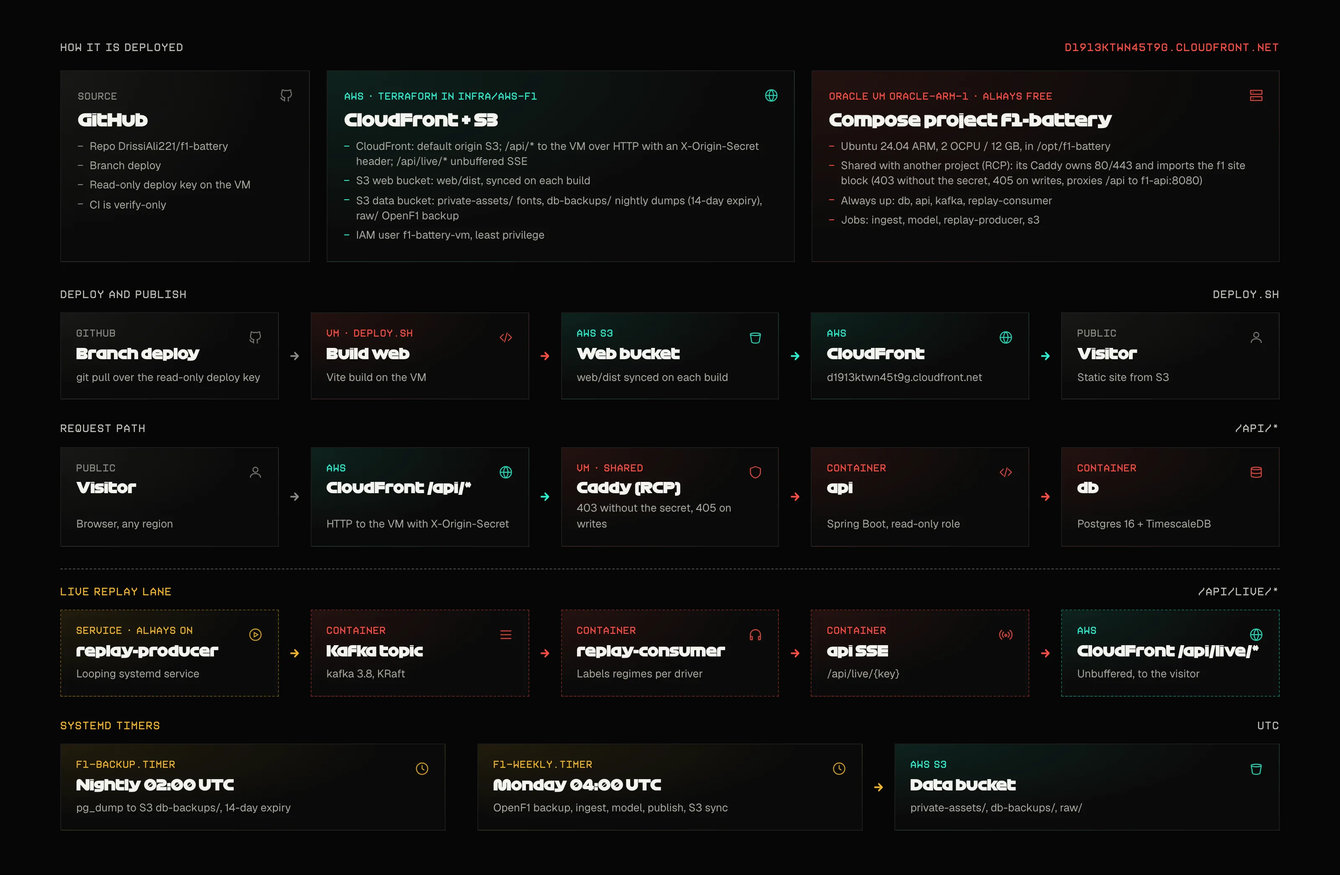
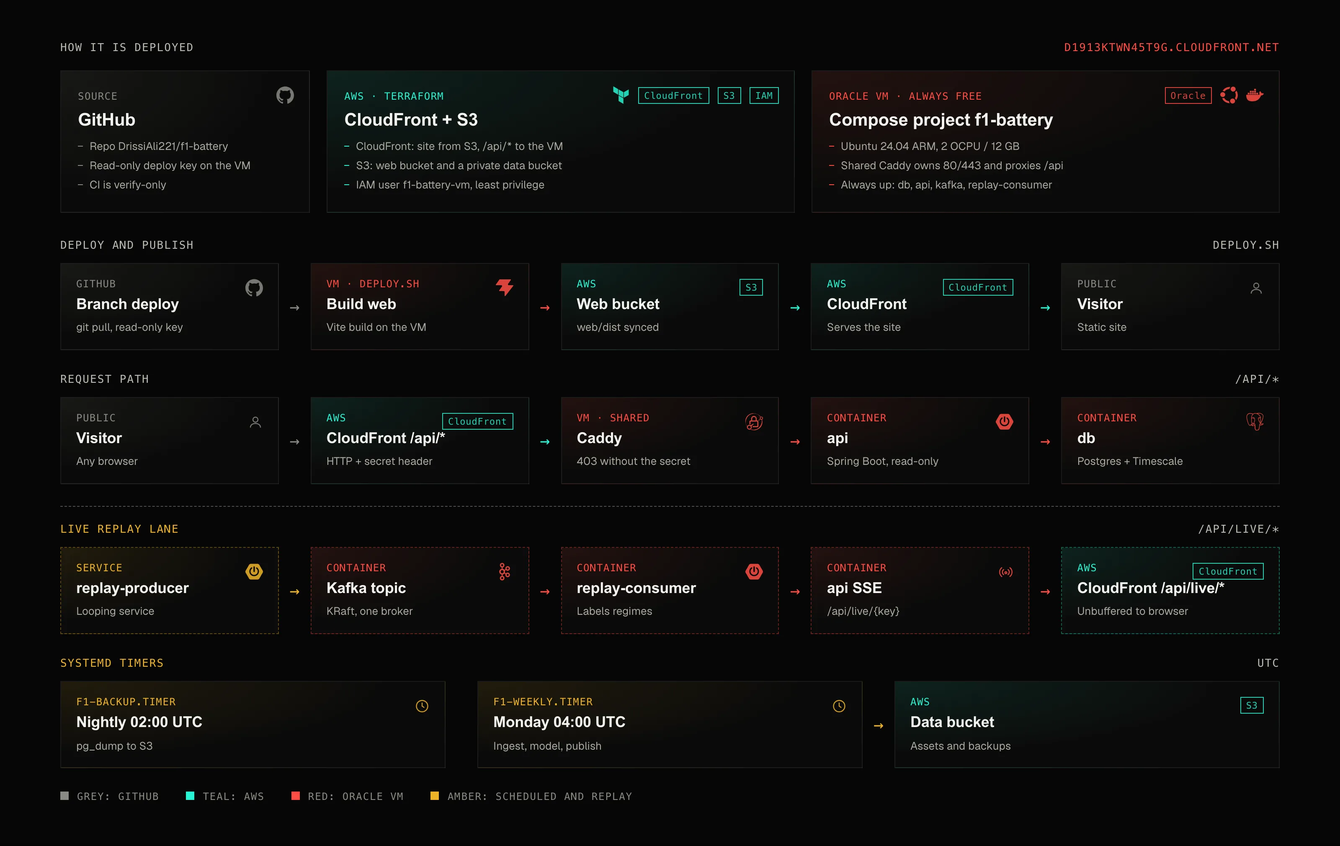
docs: brand marks in the pipeline and deployment panels

diff --git a/web/readme/logos.tsx b/web/readme/logos.tsx
@@ -1,0 +1,46 @@
+/* Brand marks vendored from Simple Icons (https://simpleicons.org), CC0 1.0. 24-grid path data, drawn monochrome.
+   Trademarks belong to their owners. Not in Simple Icons, so typeset as wordmarks instead: Oracle, AWS, S3, CloudFront, IAM. */
+import type { CSSProperties } from 'react';
+
+export const MARKS: Record<string, string> = {
+  // Simple Icons, CC0
+  github: 'M12 .297c-6.63 0-12 5.373-12 12 0 5.303 3.438 9.8 8.205 11.385.6.113.82-.258.82-.577 0-.285-.01-1.04-.015-2.04-3.338.724-4.042-1.61-4.042-1.61C4.422 18.07 3.633 17.7 3.633 17.7c-1.087-.744.084-.729.084-.729 1.205.084 1.838 1.236 1.838 1.236 1.07 1.835 2.809 1.305 3.495.998.108-.776.417-1.305.76-1.605-2.665-.3-5.466-1.332-5.466-5.93 0-1.31.465-2.38 1.235-3.22-.135-.303-.54-1.523.105-3.176 0 0 1.005-.322 3.3 1.23.96-.267 1.98-.399 3-.405 1.02.006 2.04.138 3 .405 2.28-1.552 3.285-1.23 3.285-1.23.645 1.653.24 2.873.12 3.176.765.84 1.23 1.91 1.23 3.22 0 4.61-2.805 5.625-5.475 5.92.42.36.81 1.096.81 2.22 0 1.606-.015 2.896-.015 3.286 0 .315.21.69.825.57C20.565 22.092 24 17.592 24 12.297c0-6.627-5.373-12-12-12',
+  // Simple Icons, CC0
+  postgresql: 'M23.5594 14.7228a.5269.5269 0 0 0-.0563-.1191c-.139-.2632-.4768-.3418-1.0074-.2321-1.6533.3411-2.2935.1312-2.5256-.0191 1.342-2.0482 2.445-4.522 3.0411-6.8297.2714-1.0507.7982-3.5237.1222-4.7316a1.5641 1.5641 0 0 0-.1509-.235C21.6931.9086 19.8007.0248 17.5099.0005c-1.4947-.0158-2.7705.3461-3.1161.4794a9.449 9.449 0 0 0-.5159-.0816 8.044 8.044 0 0 0-1.3114-.1278c-1.1822-.0184-2.2038.2642-3.0498.8406-.8573-.3211-4.7888-1.645-7.2219.0788C.9359 2.1526.3086 3.8733.4302 6.3043c.0409.818.5069 3.334 1.2423 5.7436.4598 1.5065.9387 2.7019 1.4334 3.582.553.9942 1.1259 1.5933 1.7143 1.7895.4474.1491 1.1327.1441 1.8581-.7279.8012-.9635 1.5903-1.8258 1.9446-2.2069.4351.2355.9064.3625 1.39.3772a.0569.0569 0 0 0 .0004.0041 11.0312 11.0312 0 0 0-.2472.3054c-.3389.4302-.4094.5197-1.5002.7443-.3102.064-1.1344.2339-1.1464.8115-.0025.1224.0329.2309.0919.3268.2269.4231.9216.6097 1.015.6331 1.3345.3335 2.5044.092 3.3714-.6787-.017 2.231.0775 4.4174.3454 5.0874.2212.5529.7618 1.9045 2.4692 1.9043.2505 0 .5263-.0291.8296-.0941 1.7819-.3821 2.5557-1.1696 2.855-2.9059.1503-.8707.4016-2.8753.5388-4.1012.0169-.0703.0357-.1207.057-.1362.0007-.0005.0697-.0471.4272.0307a.3673.3673 0 0 0 .0443.0068l.2539.0223.0149.001c.8468.0384 1.9114-.1426 2.5312-.4308.6438-.2988 1.8057-1.0323 1.5951-1.6698zM2.371 11.8765c-.7435-2.4358-1.1779-4.8851-1.2123-5.5719-.1086-2.1714.4171-3.6829 1.5623-4.4927 1.8367-1.2986 4.8398-.5408 6.108-.13-.0032.0032-.0066.0061-.0098.0094-2.0238 2.044-1.9758 5.536-1.9708 5.7495-.0002.0823.0066.1989.0162.3593.0348.5873.0996 1.6804-.0735 2.9184-.1609 1.1504.1937 2.2764.9728 3.0892.0806.0841.1648.1631.2518.2374-.3468.3714-1.1004 1.1926-1.9025 2.1576-.5677.6825-.9597.5517-1.0886.5087-.3919-.1307-.813-.5871-1.2381-1.3223-.4796-.839-.9635-2.0317-1.4155-3.5126zm6.0072 5.0871c-.1711-.0428-.3271-.1132-.4322-.1772.0889-.0394.2374-.0902.4833-.1409 1.2833-.2641 1.4815-.4506 1.9143-1.0002.0992-.126.2116-.2687.3673-.4426a.3549.3549 0 0 0 .0737-.1298c.1708-.1513.2724-.1099.4369-.0417.156.0646.3078.26.3695.4752.0291.1016.0619.2945-.0452.4444-.9043 1.2658-2.2216 1.2494-3.1676 1.0128zm2.094-3.988-.0525.141c-.133.3566-.2567.6881-.3334 1.003-.6674-.0021-1.3168-.2872-1.8105-.8024-.6279-.6551-.9131-1.5664-.7825-2.5004.1828-1.3079.1153-2.4468.079-3.0586-.005-.0857-.0095-.1607-.0122-.2199.2957-.2621 1.6659-.9962 2.6429-.7724.4459.1022.7176.4057.8305.928.5846 2.7038.0774 3.8307-.3302 4.7363-.084.1866-.1633.3629-.2311.5454zm7.3637 4.5725c-.0169.1768-.0358.376-.0618.5959l-.146.4383a.3547.3547 0 0 0-.0182.1077c-.0059.4747-.054.6489-.115.8693-.0634.2292-.1353.4891-.1794 1.0575-.11 1.4143-.8782 2.2267-2.4172 2.5565-1.5155.3251-1.7843-.4968-2.0212-1.2217a6.5824 6.5824 0 0 0-.0769-.2266c-.2154-.5858-.1911-1.4119-.1574-2.5551.0165-.5612-.0249-1.9013-.3302-2.6462.0044-.2932.0106-.5909.019-.8918a.3529.3529 0 0 0-.0153-.1126 1.4927 1.4927 0 0 0-.0439-.208c-.1226-.4283-.4213-.7866-.7797-.9351-.1424-.059-.4038-.1672-.7178-.0869.067-.276.1831-.5875.309-.9249l.0529-.142c.0595-.16.134-.3257.213-.5012.4265-.9476 1.0106-2.2453.3766-5.1772-.2374-1.0981-1.0304-1.6343-2.2324-1.5098-.7207.0746-1.3799.3654-1.7088.5321a5.6716 5.6716 0 0 0-.1958.1041c.0918-1.1064.4386-3.1741 1.7357-4.4823a4.0306 4.0306 0 0 1 .3033-.276.3532.3532 0 0 0 .1447-.0644c.7524-.5706 1.6945-.8506 2.802-.8325.4091.0067.8017.0339 1.1742.081 1.939.3544 3.2439 1.4468 4.0359 2.3827.8143.9623 1.2552 1.9315 1.4312 2.4543-1.3232-.1346-2.2234.1268-2.6797.779-.9926 1.4189.543 4.1729 1.2811 5.4964.1353.2426.2522.4522.2889.5413.2403.5825.5515.9713.7787 1.2552.0696.087.1372.1714.1885.245-.4008.1155-1.1208.3825-1.0552 1.717-.0123.1563-.0423.4469-.0834.8148-.0461.2077-.0702.4603-.0994.7662zm.8905-1.6211c-.0405-.8316.2691-.9185.5967-1.0105a2.8566 2.8566 0 0 0 .135-.0406 1.202 1.202 0 0 0 .1342.103c.5703.3765 1.5823.4213 3.0068.1344-.2016.1769-.5189.3994-.9533.6011-.4098.1903-1.0957.333-1.7473.3636-.7197.0336-1.0859-.0807-1.1721-.151zm.5695-9.2712c-.0059.3508-.0542.6692-.1054 1.0017-.055.3576-.112.7274-.1264 1.1762-.0142.4368.0404.8909.0932 1.3301.1066.887.216 1.8003-.2075 2.7014a3.5272 3.5272 0 0 1-.1876-.3856c-.0527-.1276-.1669-.3326-.3251-.6162-.6156-1.1041-2.0574-3.6896-1.3193-4.7446.3795-.5427 1.3408-.5661 2.1781-.463zm.2284 7.0137a12.3762 12.3762 0 0 0-.0853-.1074l-.0355-.0444c.7262-1.1995.5842-2.3862.4578-3.4385-.0519-.4318-.1009-.8396-.0885-1.2226.0129-.4061.0666-.7543.1185-1.0911.0639-.415.1288-.8443.1109-1.3505.0134-.0531.0188-.1158.0118-.1902-.0457-.4855-.5999-1.938-1.7294-3.253-.6076-.7073-1.4896-1.4972-2.6889-2.0395.5251-.1066 1.2328-.2035 2.0244-.1859 2.0515.0456 3.6746.8135 4.8242 2.2824a.908.908 0 0 1 .0667.1002c.7231 1.3556-.2762 6.2751-2.9867 10.5405zm-8.8166-6.1162c-.025.1794-.3089.4225-.6211.4225a.5821.5821 0 0 1-.0809-.0056c-.1873-.026-.3765-.144-.5059-.3156-.0458-.0605-.1203-.178-.1055-.2844.0055-.0401.0261-.0985.0925-.1488.1182-.0894.3518-.1226.6096-.0867.3163.0441.6426.1938.6113.4186zm7.9305-.4114c.0111.0792-.049.201-.1531.3102-.0683.0717-.212.1961-.4079.2232a.5456.5456 0 0 1-.075.0052c-.2935 0-.5414-.2344-.5607-.3717-.024-.1765.2641-.3106.5611-.352.297-.0414.6111.0088.6356.1851z',
+  // Simple Icons, CC0
+  timescale: 'M5.537.763c-1.167.7-2.21 1.582-3.08 2.61L3.79 4.836a10.422 10.422 0 013.627-2.881zm13.028.085l-1.991 1.12a10.381 10.381 0 013.762 3.07l1.18-1.654a12.371 12.371 0 00-2.95-2.536zm-6.564.752a9.788 9.788 0 00-4.131.91l.59 1.011a8.542 8.542 0 013.541-.762c1.261 0 2.457.274 3.534.76l.59-1.012a9.81 9.81 0 00-4.124-.907zM11.4 3.535l-.55 6.626h.003l-.002.04c.003.111.013.216.033.318.01.112.043.227.097.342.114.289.298.505.516.607.05.04.105.075.158.111a.98.98 0 01.033.02v.004l6.68 3.596.348-.476-6.058-4.6c-.007 0-.01-.005-.014-.008L12 3.535zm1.423.052c.19.234.361.523.502.855 3.155.604 5.54 3.325 5.54 6.596 0 .877-.176 1.712-.484 2.48a3.7 3.7 0 01.52.76 7.314 7.314 0 00.754-3.24c0-3.868-2.99-7.05-6.832-7.45zm-2.284.095c-3.527.667-6.19 3.708-6.19 7.356 0 2.584 1.335 4.863 3.367 6.21a9.84 9.84 0 01.295-.743c-1.74-1.219-2.874-3.214-2.874-5.467 0-3.054 2.082-5.632 4.932-6.45.128-.351.289-.656.47-.906zm9.15 1.675l-.801.893a8.101 8.101 0 011.551 4.777c0 2.916-1.542 5.481-3.872 6.952.104.388.188.792.251 1.209 2.87-1.632 4.802-4.677 4.802-8.16a9.224 9.224 0 00-1.93-5.67zm-15.38.007a9.25 9.25 0 00-1.93 5.665c0 3.507 1.954 6.567 4.858 8.19.063-.418.144-.822.248-1.206-2.36-1.468-3.923-4.045-3.923-6.984 0-1.777.573-3.422 1.549-4.772zm9.314.043c.044.203.08.416.107.64a5.332 5.332 0 013.213 2.912l.577-.148a5.942 5.942 0 00-3.897-3.404zm-3.816.187a5.939 5.939 0 00-3.319 3.198l.58.148A5.324 5.324 0 019.73 6.257c.017-.227.04-.45.077-.663zM6.733 9.672l-.62.63.315.614 1.727.618.942-.618-.312-.923zm10.615 0l-2.048.321-.315.923.942.618 1.73-.618.315-.614zM6.1 11.869A5.824 5.824 0 008.42 15.7c.1-.17.204-.335.315-.493a5.252 5.252 0 01-2.038-3.34zm11.206 0c-.03.18-.071.355-.118.529.174.138.338.272.493.41.097-.302.174-.617.22-.94zm-15.679.217L0 14.158c.966 3.661 3.638 6.65 7.132 8.111a9.399 9.399 0 01-.05-1.031c0-.375.017-.747.05-1.111-3.024-1.563-5.166-4.544-5.505-8.041zm20.707.055c-.352 3.45-2.464 6.394-5.441 7.957.033.374.05.755.053 1.136 0 .377-.017.71-.05 1.005 3.506-1.488 6.175-4.522 7.104-8.223zm-6.544 2.617a5.31 5.31 0 01-.486.42c.11.158.218.322.318.493.265-.2.513-.42.74-.66a10.61 10.61 0 01-.572-.253zm1.502.559a6.9 6.9 0 01-1.25 1.156c.106.236.207.485.294.741a7.667 7.667 0 001.857-1.772 3.554 3.554 0 01-.9-.125zm-2.988.63l-2.303.913-2.307-.91-.587 1.435 2.448.946c-.134.46-.568.798-1.08.798-.034 0-.07-.004-.104-.007l-.5.686c.188.063.39.096.6.096.621 0 1.17-.289 1.52-.738a1.924 1.924 0 002.183.62l-.49-.67a1.122 1.122 0 01-1.26-.805l2.47-.926zm1.156 4.775c-1.09.377-2.256.58-3.476.58-1.17 0-2.29-.186-3.34-.534.231.88.59 1.654 1.05 2.262.743.134 1.509.207 2.294.207.835 0 1.65-.082 2.437-.236.453-.61.807-1.39 1.035-2.28z',
+  // Simple Icons, CC0
+  apachekafka: 'M9.71 2.136a1.43 1.43 0 0 0-2.047 0h-.007a1.48 1.48 0 0 0-.421 1.042c0 .41.161.777.422 1.039l.007.007c.257.264.616.426 1.019.426.404 0 .766-.162 1.027-.426l.003-.007c.261-.262.421-.629.421-1.039 0-.408-.159-.777-.421-1.042H9.71zM8.683 22.295c.404 0 .766-.167 1.027-.429l.003-.008c.261-.261.421-.631.421-1.036 0-.41-.159-.778-.421-1.044H9.71a1.42 1.42 0 0 0-1.027-.432 1.4 1.4 0 0 0-1.02.432h-.007c-.26.266-.422.634-.422 1.044 0 .406.161.775.422 1.036l.007.008c.258.262.617.429 1.02.429zm7.89-4.462c.359-.096.683-.33.882-.684l.027-.052a1.47 1.47 0 0 0 .114-1.067 1.454 1.454 0 0 0-.675-.896l-.021-.014a1.425 1.425 0 0 0-1.078-.132c-.36.091-.684.335-.881.686-.2.349-.241.75-.146 1.119.099.363.33.691.675.896h.002c.346.203.737.239 1.101.144zm-6.405-7.342a2.083 2.083 0 0 0-1.485-.627c-.58 0-1.103.242-1.482.627-.378.385-.612.916-.612 1.507s.233 1.124.612 1.514a2.08 2.08 0 0 0 2.967 0c.379-.39.612-.923.612-1.514s-.233-1.122-.612-1.507zm-.835-2.51c.843.141 1.6.552 2.178 1.144h.004c.092.093.182.196.265.299l1.446-.851a3.176 3.176 0 0 1-.047-1.808 3.149 3.149 0 0 1 1.456-1.926l.025-.016a3.062 3.062 0 0 1 2.345-.306c.77.21 1.465.721 1.898 1.482v.002c.431.757.518 1.626.313 2.408a3.145 3.145 0 0 1-1.456 1.928l-.198.118h-.02a3.095 3.095 0 0 1-2.154.201 3.127 3.127 0 0 1-1.514-.944l-1.444.848a4.162 4.162 0 0 1 0 2.879l1.444.846c.413-.47.939-.789 1.514-.944a3.041 3.041 0 0 1 2.371.319l.048.023v.002a3.17 3.17 0 0 1 1.408 1.906 3.215 3.215 0 0 1-.313 2.405l-.026.053-.003-.005a3.147 3.147 0 0 1-1.867 1.436 3.096 3.096 0 0 1-2.371-.318v-.006a3.156 3.156 0 0 1-1.456-1.927 3.175 3.175 0 0 1 .047-1.805l-1.446-.848a3.905 3.905 0 0 1-.265.294l-.004.005a3.938 3.938 0 0 1-2.178 1.138v1.699a3.09 3.09 0 0 1 1.56.862l.002.004c.565.572.914 1.368.914 2.243 0 .873-.35 1.664-.914 2.239l-.002.009a3.1 3.1 0 0 1-2.21.931 3.1 3.1 0 0 1-2.206-.93h-.002v-.009a3.186 3.186 0 0 1-.916-2.239c0-.875.35-1.672.916-2.243v-.004h.002a3.1 3.1 0 0 1 1.558-.862v-1.699a3.926 3.926 0 0 1-2.176-1.138l-.006-.005a4.098 4.098 0 0 1-1.173-2.874c0-1.122.452-2.136 1.173-2.872h.006a3.947 3.947 0 0 1 2.176-1.144V6.289a3.137 3.137 0 0 1-1.558-.864h-.002v-.004a3.192 3.192 0 0 1-.916-2.243c0-.871.35-1.669.916-2.243l.002-.002A3.084 3.084 0 0 1 8.683 0c.861 0 1.641.355 2.21.932v.002h.002c.565.574.914 1.372.914 2.243 0 .876-.35 1.667-.914 2.243l-.002.005a3.142 3.142 0 0 1-1.56.864v1.692zm8.121-1.129l-.012-.019a1.452 1.452 0 0 0-.87-.668 1.43 1.43 0 0 0-1.103.146h.002c-.347.2-.58.529-.677.896-.095.365-.054.768.146 1.119l.007.009c.2.347.519.579.874.673.357.103.755.059 1.098-.144l.019-.009a1.47 1.47 0 0 0 .657-.885 1.493 1.493 0 0 0-.141-1.118',
+  // Simple Icons, CC0
+  springboot: 'm23.693 10.7058-4.73-8.1844c-.4094-.7106-1.4166-1.2942-2.2402-1.2942H7.2725c-.819 0-1.8308.5836-2.2402 1.2942L.307 10.7058c-.4095.7106-.4095 1.873 0 2.5837l4.7252 8.189c.4094.7107 1.4166 1.2943 2.2402 1.2943h9.455c.819 0 1.826-.5836 2.2402-1.2942l4.7252-8.189c.4095-.7107.4095-1.8732 0-2.5838zM10.9763 5.7547c0-.5365.4377-.9742.9742-.9742s.9742.4377.9742.9742v5.8217c0 .5366-.4377.9742-.9742.9742s-.9742-.4376-.9742-.9742zm.9742 12.4294c-3.6427 0-6.6077-2.965-6.6077-6.6077.0047-2.0896.993-4.0521 2.6685-5.304a.8657.8657 0 0 1 1.2142.1788.8657.8657 0 0 1-.1788 1.2143c-2.1602 1.6048-2.612 4.6592-1.0072 6.8194 1.6049 2.1603 4.6593 2.612 6.8195 1.0072 1.2378-.9177 1.9673-2.372 1.9673-3.9157a4.8972 4.8972 0 0 0-1.9861-3.925c-.386-.2824-.466-.8284-.1836-1.2143.2824-.386.8283-.466 1.2143-.1835 1.6895 1.2471 2.6826 3.2238 2.6873 5.3228 0 3.6474-2.965 6.6077-6.6077 6.6077z',
+  // Simple Icons, CC0
+  react: 'M14.23 12.004a2.236 2.236 0 0 1-2.235 2.236 2.236 2.236 0 0 1-2.236-2.236 2.236 2.236 0 0 1 2.235-2.236 2.236 2.236 0 0 1 2.236 2.236zm2.648-10.69c-1.346 0-3.107.96-4.888 2.622-1.78-1.653-3.542-2.602-4.887-2.602-.41 0-.783.093-1.106.278-1.375.793-1.683 3.264-.973 6.365C1.98 8.917 0 10.42 0 12.004c0 1.59 1.99 3.097 5.043 4.03-.704 3.113-.39 5.588.988 6.38.32.187.69.275 1.102.275 1.345 0 3.107-.96 4.888-2.624 1.78 1.654 3.542 2.603 4.887 2.603.41 0 .783-.09 1.106-.275 1.374-.792 1.683-3.263.973-6.365C22.02 15.096 24 13.59 24 12.004c0-1.59-1.99-3.097-5.043-4.032.704-3.11.39-5.587-.988-6.38-.318-.184-.688-.277-1.092-.278zm-.005 1.09v.006c.225 0 .406.044.558.127.666.382.955 1.835.73 3.704-.054.46-.142.945-.25 1.44-.96-.236-2.006-.417-3.107-.534-.66-.905-1.345-1.727-2.035-2.447 1.592-1.48 3.087-2.292 4.105-2.295zm-9.77.02c1.012 0 2.514.808 4.11 2.28-.686.72-1.37 1.537-2.02 2.442-1.107.117-2.154.298-3.113.538-.112-.49-.195-.964-.254-1.42-.23-1.868.054-3.32.714-3.707.19-.09.4-.127.563-.132zm4.882 3.05c.455.468.91.992 1.36 1.564-.44-.02-.89-.034-1.345-.034-.46 0-.915.01-1.36.034.44-.572.895-1.096 1.345-1.565zM12 8.1c.74 0 1.477.034 2.202.093.406.582.802 1.203 1.183 1.86.372.64.71 1.29 1.018 1.946-.308.655-.646 1.31-1.013 1.95-.38.66-.773 1.288-1.18 1.87-.728.063-1.466.098-2.21.098-.74 0-1.477-.035-2.202-.093-.406-.582-.802-1.204-1.183-1.86-.372-.64-.71-1.29-1.018-1.946.303-.657.646-1.313 1.013-1.954.38-.66.773-1.286 1.18-1.868.728-.064 1.466-.098 2.21-.098zm-3.635.254c-.24.377-.48.763-.704 1.16-.225.39-.435.782-.635 1.174-.265-.656-.49-1.31-.676-1.947.64-.15 1.315-.283 2.015-.386zm7.26 0c.695.103 1.365.23 2.006.387-.18.632-.405 1.282-.66 1.933-.2-.39-.41-.783-.64-1.174-.225-.392-.465-.774-.705-1.146zm3.063.675c.484.15.944.317 1.375.498 1.732.74 2.852 1.708 2.852 2.476-.005.768-1.125 1.74-2.857 2.475-.42.18-.88.342-1.355.493-.28-.958-.646-1.956-1.1-2.98.45-1.017.81-2.01 1.085-2.964zm-13.395.004c.278.96.645 1.957 1.1 2.98-.45 1.017-.812 2.01-1.086 2.964-.484-.15-.944-.318-1.37-.5-1.732-.737-2.852-1.706-2.852-2.474 0-.768 1.12-1.742 2.852-2.476.42-.18.88-.342 1.356-.494zm11.678 4.28c.265.657.49 1.312.676 1.948-.64.157-1.316.29-2.016.39.24-.375.48-.762.705-1.158.225-.39.435-.788.636-1.18zm-9.945.02c.2.392.41.783.64 1.175.23.39.465.772.705 1.143-.695-.102-1.365-.23-2.006-.386.18-.63.406-1.282.66-1.933zM17.92 16.32c.112.493.2.968.254 1.423.23 1.868-.054 3.32-.714 3.708-.147.09-.338.128-.563.128-1.012 0-2.514-.807-4.11-2.28.686-.72 1.37-1.536 2.02-2.44 1.107-.118 2.154-.3 3.113-.54zm-11.83.01c.96.234 2.006.415 3.107.532.66.905 1.345 1.727 2.035 2.446-1.595 1.483-3.092 2.295-4.11 2.295-.22-.005-.406-.05-.553-.132-.666-.38-.955-1.834-.73-3.703.054-.46.142-.944.25-1.438zm4.56.64c.44.02.89.034 1.345.034.46 0 .915-.01 1.36-.034-.44.572-.895 1.095-1.345 1.565-.455-.47-.91-.993-1.36-1.565z',
+  // Simple Icons, CC0
+  vite: 'M13.056 23.238a.57.57 0 0 1-1.02-.355v-5.202c0-.63-.512-1.143-1.144-1.143H5.148a.57.57 0 0 1-.464-.903l3.777-5.29c.54-.753 0-1.804-.93-1.804H.57a.574.574 0 0 1-.543-.746.6.6 0 0 1 .08-.157L5.008.78a.57.57 0 0 1 .467-.24h14.589a.57.57 0 0 1 .466.903l-3.778 5.29c-.54.755 0 1.806.93 1.806h5.745c.238 0 .424.138.513.322a.56.56 0 0 1-.063.603z',
+  // Simple Icons, CC0
+  python: 'M14.25.18l.9.2.73.26.59.3.45.32.34.34.25.34.16.33.1.3.04.26.02.2-.01.13V8.5l-.05.63-.13.55-.21.46-.26.38-.3.31-.33.25-.35.19-.35.14-.33.1-.3.07-.26.04-.21.02H8.77l-.69.05-.59.14-.5.22-.41.27-.33.32-.27.35-.2.36-.15.37-.1.35-.07.32-.04.27-.02.21v3.06H3.17l-.21-.03-.28-.07-.32-.12-.35-.18-.36-.26-.36-.36-.35-.46-.32-.59-.28-.73-.21-.88-.14-1.05-.05-1.23.06-1.22.16-1.04.24-.87.32-.71.36-.57.4-.44.42-.33.42-.24.4-.16.36-.1.32-.05.24-.01h.16l.06.01h8.16v-.83H6.18l-.01-2.75-.02-.37.05-.34.11-.31.17-.28.25-.26.31-.23.38-.2.44-.18.51-.15.58-.12.64-.1.71-.06.77-.04.84-.02 1.27.05zm-6.3 1.98l-.23.33-.08.41.08.41.23.34.33.22.41.09.41-.09.33-.22.23-.34.08-.41-.08-.41-.23-.33-.33-.22-.41-.09-.41.09zm13.09 3.95l.28.06.32.12.35.18.36.27.36.35.35.47.32.59.28.73.21.88.14 1.04.05 1.23-.06 1.23-.16 1.04-.24.86-.32.71-.36.57-.4.45-.42.33-.42.24-.4.16-.36.09-.32.05-.24.02-.16-.01h-8.22v.82h5.84l.01 2.76.02.36-.05.34-.11.31-.17.29-.25.25-.31.24-.38.2-.44.17-.51.15-.58.13-.64.09-.71.07-.77.04-.84.01-1.27-.04-1.07-.14-.9-.2-.73-.25-.59-.3-.45-.33-.34-.34-.25-.34-.16-.33-.1-.3-.04-.25-.02-.2.01-.13v-5.34l.05-.64.13-.54.21-.46.26-.38.3-.32.33-.24.35-.2.35-.14.33-.1.3-.06.26-.04.21-.02.13-.01h5.84l.69-.05.59-.14.5-.21.41-.28.33-.32.27-.35.2-.36.15-.36.1-.35.07-.32.04-.28.02-.21V6.07h2.09l.14.01zm-6.47 14.25l-.23.33-.08.41.08.41.23.33.33.23.41.08.41-.08.33-.23.23-.33.08-.41-.08-.41-.23-.33-.33-.23-.41-.08-.41.08z',
+  // Simple Icons, CC0
+  docker: 'M13.983 11.078h2.119a.186.186 0 00.186-.185V9.006a.186.186 0 00-.186-.186h-2.119a.185.185 0 00-.185.185v1.888c0 .102.083.185.185.185m-2.954-5.43h2.118a.186.186 0 00.186-.186V3.574a.186.186 0 00-.186-.185h-2.118a.185.185 0 00-.185.185v1.888c0 .102.082.185.185.185m0 2.716h2.118a.187.187 0 00.186-.186V6.29a.186.186 0 00-.186-.185h-2.118a.185.185 0 00-.185.185v1.887c0 .102.082.185.185.186m-2.93 0h2.12a.186.186 0 00.184-.186V6.29a.185.185 0 00-.185-.185H8.1a.185.185 0 00-.185.185v1.887c0 .102.083.185.185.186m-2.964 0h2.119a.186.186 0 00.185-.186V6.29a.185.185 0 00-.185-.185H5.136a.186.186 0 00-.186.185v1.887c0 .102.084.185.186.186m5.893 2.715h2.118a.186.186 0 00.186-.185V9.006a.186.186 0 00-.186-.186h-2.118a.185.185 0 00-.185.185v1.888c0 .102.082.185.185.185m-2.93 0h2.12a.185.185 0 00.184-.185V9.006a.185.185 0 00-.184-.186h-2.12a.185.185 0 00-.184.185v1.888c0 .102.083.185.185.185m-2.964 0h2.119a.185.185 0 00.185-.185V9.006a.185.185 0 00-.184-.186h-2.12a.186.186 0 00-.186.186v1.887c0 .102.084.185.186.185m-2.92 0h2.12a.185.185 0 00.184-.185V9.006a.185.185 0 00-.184-.186h-2.12a.185.185 0 00-.184.185v1.888c0 .102.082.185.185.185M23.763 9.89c-.065-.051-.672-.51-1.954-.51-.338.001-.676.03-1.01.087-.248-1.7-1.653-2.53-1.716-2.566l-.344-.199-.226.327c-.284.438-.49.922-.612 1.43-.23.97-.09 1.882.403 2.661-.595.332-1.55.413-1.744.42H.751a.751.751 0 00-.75.748 11.376 11.376 0 00.692 4.062c.545 1.428 1.355 2.48 2.41 3.124 1.18.723 3.1 1.137 5.275 1.137.983.003 1.963-.086 2.93-.266a12.248 12.248 0 003.823-1.389c.98-.567 1.86-1.288 2.61-2.136 1.252-1.418 1.998-2.997 2.553-4.4h.221c1.372 0 2.215-.549 2.68-1.009.309-.293.55-.65.707-1.046l.098-.288Z',
+  // Simple Icons, CC0
+  caddy: 'M11.094.47c-.842 0-1.696.092-2.552.288a11.37 11.37 0 0 0-4.87 2.423 10.632 10.632 0 0 0-2.36 2.826A10.132 10.132 0 0 0 .305 8.582c-.398 1.62-.4 3.336-.043 5.048.085.405.183.809.31 1.212a11.85 11.85 0 0 0 1.662 3.729 3.273 3.273 0 0 0-.086.427 3.323 3.323 0 0 0 2.848 3.71 3.279 3.279 0 0 0 1.947-.346c1.045.51 2.17.864 3.339 1.04a11.66 11.66 0 0 0 4.285-.155 11.566 11.566 0 0 0 4.936-2.485 10.643 10.643 0 0 0 2.352-2.894 11.164 11.164 0 0 0 1.356-4.424 11.214 11.214 0 0 0-.498-4.335c.175-.077.338-.175.486-.293a.444.444 89.992 0 0 .001 0c.402-.322.693-.794.777-1.342a2.146 2.146 0 0 0-1.79-2.434 2.115 2.115 0 0 0-1.205.171c-.038-.043-.078-.086-.113-.13a11.693 11.693 0 0 0-3.476-2.93 13.348 13.348 0 0 0-1.76-.81 13.55 13.55 0 0 0-2.06-.613A12.121 12.121 0 0 0 11.093.47Zm.714.328c.345-.004.688.01 1.028.042a9.892 9.892 0 0 1 2.743.639c.984.39 1.89.958 2.707 1.632.803.662 1.502 1.45 2.091 2.328.026.039.048.08.07.12a2.12 2.12 0 0 0-.435 2.646c-.158.114-.97.692-1.634 1.183-.414.308-.733.557-.733.557l.581.68s.296-.276.665-.638c.572-.562 1.229-1.233 1.395-1.403a2.122 2.122 0 0 0 1.907.677 11.229 11.229 0 0 1-.013 4.046 11.41 11.41 0 0 1-1.475 3.897 12.343 12.343 0 0 1-2.079 2.587c-1.19 1.125-2.633 2.022-4.306 2.531a10.826 10.826 0 0 1-3.973.484 11.04 11.04 0 0 1-3.057-.652 3.304 3.304 0 0 0 1.417-2.294 3.275 3.275 0 0 0-.294-1.842c.18-.162.403-.363.656-.6 1.015-.955 2.353-2.303 2.353-2.303l-.47-.599s-1.63.972-2.801 1.728c-.307.198-.573.378-.777.517a3.273 3.273 0 0 0-1.516-.611c-1.507-.198-2.927.672-3.487 2.017a10.323 10.323 0 0 1-.695-1.078A10.92 10.92 0 0 1 .728 14.8a10.35 10.35 0 0 1-.2-1.212c-.164-1.653.103-3.258.629-4.754a12.95 12.95 0 0 1 1.087-2.288c.57-.968 1.248-1.872 2.069-2.656A11.013 11.013 0 0 1 11.808.797Zm-.147 3.257a3.838 3.838 0 0 0-3.82 3.82v2.36h-.94c-.751 0-1.377.625-1.377 1.377v3.8h1.46v-3.718h9.354v6.264H10.02v1.46h6.4c.751 0 1.377-.625 1.377-1.377v-6.43c0-.751-.626-1.377-1.377-1.377h-.94v-2.36a3.838 3.838 0 0 0-3.82-3.819zm0 1.46a2.371 2.371 0 0 1 2.36 2.36v2.36H9.3v-2.36a2.372 2.372 0 0 1 2.36-2.36zm10.141.392a1.253 1.253 0 0 1 1.296 1.434c-.049.319-.217.59-.453.78-.266.213-.61.318-.968.264a1.253 1.253 0 0 1-1.045-1.42 1.255 1.255 0 0 1 1.17-1.058zM5.384 17.425a2.02 2.02 0 0 1 1.917 1.298c.116.3.159.628.114.967a2.015 2.015 0 0 1-2.249 1.728 2.016 2.016 0 0 1-1.727-2.25 2.017 2.017 0 0 1 1.945-1.743z',
+  // Simple Icons, CC0
+  terraform: 'M1.44 0v7.575l6.561 3.79V3.787zm21.12 4.227l-6.561 3.791v7.574l6.56-3.787zM8.72 4.23v7.575l6.561 3.787V8.018zm0 8.405v7.575L15.28 24v-7.578z',
+  // Simple Icons, CC0
+  ubuntu: 'M17.61.455a3.41 3.41 0 0 0-3.41 3.41 3.41 3.41 0 0 0 3.41 3.41 3.41 3.41 0 0 0 3.41-3.41 3.41 3.41 0 0 0-3.41-3.41zM12.92.8C8.923.777 5.137 2.941 3.148 6.451a4.5 4.5 0 0 1 .26-.007 4.92 4.92 0 0 1 2.585.737A8.316 8.316 0 0 1 12.688 3.6 4.944 4.944 0 0 1 13.723.834 11.008 11.008 0 0 0 12.92.8zm9.226 4.994a4.915 4.915 0 0 1-1.918 2.246 8.36 8.36 0 0 1-.273 8.303 4.89 4.89 0 0 1 1.632 2.54 11.156 11.156 0 0 0 .559-13.089zM3.41 7.932A3.41 3.41 0 0 0 0 11.342a3.41 3.41 0 0 0 3.41 3.409 3.41 3.41 0 0 0 3.41-3.41 3.41 3.41 0 0 0-3.41-3.41zm2.027 7.866a4.908 4.908 0 0 1-2.915.358 11.1 11.1 0 0 0 7.991 6.698 11.234 11.234 0 0 0 2.422.249 4.879 4.879 0 0 1-.999-2.85 8.484 8.484 0 0 1-.836-.136 8.304 8.304 0 0 1-5.663-4.32zm11.405.928a3.41 3.41 0 0 0-3.41 3.41 3.41 3.41 0 0 0 3.41 3.41 3.41 3.41 0 0 0 3.41-3.41 3.41 3.41 0 0 0-3.41-3.41z',
+  // Simple Icons, CC0
+  openjdk: 'M11.915 0 11.7.215C9.515 2.4 7.47 6.39 6.046 10.483c-1.064 1.024-3.633 2.81-3.711 3.551-.093.87 1.746 2.611 1.55 3.235-.198.625-1.304 1.408-1.014 1.939.1.188.823.011 1.277-.491a13.389 13.389 0 0 0-.017 2.14c.076.906.27 1.668.643 2.232.372.563.956.911 1.667.911.397 0 .727-.114 1.024-.264.298-.149.571-.33.91-.5.68-.34 1.634-.666 3.53-.604 1.903.062 2.872.39 3.559.704.687.314 1.15.664 1.925.664.767 0 1.395-.336 1.807-.9.412-.563.631-1.33.72-2.24.06-.623.055-1.32 0-2.066.454.45 1.117.604 1.213.424.29-.53-.816-1.314-1.013-1.937-.198-.624 1.642-2.366 1.549-3.236-.08-.748-2.707-2.568-3.748-3.586C16.428 6.374 14.308 2.394 12.13.215zm.175 6.038a2.95 2.95 0 0 1 2.943 2.942 2.95 2.95 0 0 1-2.943 2.943A2.95 2.95 0 0 1 9.148 8.98a2.95 2.95 0 0 1 2.942-2.942zM8.685 7.983a3.515 3.515 0 0 0-.145.997c0 1.951 1.6 3.55 3.55 3.55 1.95 0 3.55-1.598 3.55-3.55 0-.329-.046-.648-.132-.951.334.095.64.208.915.336a42.699 42.699 0 0 1 2.042 5.829c.678 2.545 1.01 4.92.846 6.607-.082.844-.29 1.51-.606 1.94-.315.431-.713.651-1.315.651-.593 0-.932-.27-1.673-.61-.741-.338-1.825-.694-3.792-.758-1.974-.064-3.073.293-3.821.669-.375.188-.659.373-.911.5s-.466.2-.752.2c-.53 0-.876-.209-1.16-.64-.285-.43-.474-1.101-.545-1.948-.141-1.693.176-4.069.823-6.614a43.155 43.155 0 0 1 1.934-5.783c.348-.167.749-.31 1.192-.425zm-3.382 4.362a.216.216 0 0 1 .13.031c-.166.56-.323 1.116-.463 1.665a33.849 33.849 0 0 0-.547 2.555 3.9 3.9 0 0 0-.2-.39c-.58-1.012-.914-1.642-1.16-2.08.315-.24 1.679-1.755 2.24-1.781zm13.394.01c.562.027 1.926 1.543 2.24 1.783-.246.438-.58 1.068-1.16 2.08a4.428 4.428 0 0 0-.163.309 32.354 32.354 0 0 0-.562-2.49 40.579 40.579 0 0 0-.482-1.652.216.216 0 0 1 .127-.03z',
+};
+
+export const WORDMARKS = new Set(['oracle', 'aws', 's3', 'cloudfront', 'iam']);
+const WORD: Record<string, string> = { oracle: 'Oracle', aws: 'AWS', s3: 'S3', cloudfront: 'CloudFront', iam: 'IAM' };
+
+/** One brand mark (or typed wordmark) in the card hue. */
+export function Mark({ n }: { n: string }) {
+  const d = MARKS[n];
+  if (!d) return <span className="pl-word" style={{ ['--w' as string]: WORD[n]?.length } as CSSProperties}>{WORD[n] ?? n}</span>;
+  return (
+    <svg className="pl-mark" width="21" height="21" viewBox="0 0 24 24" fill="currentColor" aria-label={n} role="img">
+      <path d={d} />
+    </svg>
+  );
+}

diff --git a/web/readme/panels.tsx b/web/readme/panels.tsx
@@ -11,6 +11,7 @@ import '../src/app/findings.css';
 import '../src/app/refinement.css';
 import '../src/app/home.css';
 import './panels.css';
+import { Mark } from './logos';
 
 const MONZA = 39;
 
@@ -57,7 +58,7 @@ function Banner() {
   );
 }
 
-type N = { k: string; t: string; s: string; i: string; pub?: boolean; w?: number };
+type N = { k: string; t: string; s: string; i: string; m?: string[]; pub?: boolean; w?: number };
 /* 24-grid line icons, 1.6 stroke, round joins, no fills (same style as session-icons.tsx). */
 const ICONS: Record<string, string> = {
   cloud: 'M7 18a4 4 0 0 1-.6-7.96A5.5 5.5 0 0 1 17 8.5a4.75 4.75 0 0 1 0 9.5M12 11v8m-3-3 3 3 3-3',
@@ -78,20 +79,23 @@ const Icon = ({ n }: { n: string }) => (
     <path d={ICONS[n]} />
   </svg>
 );
+/* Brand marks when the thing has one, otherwise the line icon. */
+const Badge = ({ i, m }: { i: string; m?: string[] }) =>
+  m?.length ? <span className="pl-marks">{m.map((x) => <Mark key={x} n={x} />)}</span> : <Icon n={i} />;
 const MAIN: N[] = [
   { k: 'Source', t: 'OpenF1', s: 'Free tier, or a local backup', i: 'cloud' },
-  { k: 'Java 21', t: 'Ingest', s: 'Idempotent, resumable upserts', i: 'ingest' },
-  { k: 'Store', t: 'Postgres 16 + TimescaleDB', s: 'Schema in Flyway migrations', i: 'db', w: 1.45 },
-  { k: 'Python', t: 'Estimator', s: 'Alignment, regimes, cut-offs', i: 'chart' },
+  { k: 'Java 21', t: 'Ingest', s: 'Idempotent, resumable upserts', i: 'ingest', m: ['openjdk', 'springboot'] },
+  { k: 'Store', t: 'Postgres 16 + TimescaleDB', s: 'Schema in Flyway migrations', i: 'db', m: ['postgresql', 'timescale'], w: 1.45 },
+  { k: 'Python', t: 'Estimator', s: 'Alignment, regimes, cut-offs', i: 'chart', m: ['python'] },
   { k: 'Published', t: 'Model run', s: 'Versioned by run_id', i: 'tag', pub: true },
-  { k: 'Read-only', t: 'API', s: 'API on :8080. SELECT-only role, rate limited', i: 'code' },
-  { k: 'React 18', t: 'Web', s: 'Maps, findings, method log', i: 'browser' },
+  { k: 'Read-only', t: 'API', s: 'API on :8080. SELECT-only role, rate limited', i: 'code', m: ['springboot'] },
+  { k: 'React 18', t: 'Web', s: 'Maps, findings, method log', i: 'browser', m: ['react', 'vite'] },
 ];
 const LANE: N[] = [
-  { k: 'Producer', t: 'Replay producer', s: 'Telemetry paced at speed', i: 'play' },
-  { k: 'Topic', t: 'telemetry.<key>', s: 'One session per key', i: 'log' },
-  { k: 'Consumer', t: 'Replay consumer', s: 'Labels regimes per driver', i: 'headphones' },
-  { k: 'Topic', t: 'regime-state.<key>', s: 'Per-driver regime state', i: 'layers' },
+  { k: 'Producer', t: 'Replay producer', s: 'Telemetry paced at speed', i: 'play', m: ['springboot'] },
+  { k: 'Topic', t: 'telemetry.<key>', s: 'One session per key', i: 'log', m: ['apachekafka'] },
+  { k: 'Consumer', t: 'Replay consumer', s: 'Labels regimes per driver', i: 'headphones', m: ['springboot'] },
+  { k: 'Topic', t: 'regime-state.<key>', s: 'Per-driver regime state', i: 'layers', m: ['apachekafka'] },
   { k: 'Stream', t: 'SSE /api/live/{key}', s: 'To the browser', i: 'radio' },
 ];
 
@@ -102,7 +106,7 @@ function Flow({ nodes, cls }: { nodes: N[]; cls?: string }) {
         <span key={n.t} style={{ display: 'contents' }}>
           {i > 0 && <span className={`pl-arrow ${cls ?? ''}`} aria-hidden="true">→</span>}
           <div className={`pl-node ${cls ?? ''}${n.pub ? ' is-published' : ''}`} style={n.w ? { flexGrow: n.w } : undefined}>
-            <Icon n={n.i} />
+            <Badge i={n.i} m={n.m} />
             <span className="k">{n.k}</span>
             <strong>{n.t}</strong>
             <small>{n.s}</small>
@@ -282,38 +286,38 @@ Object.assign(ICONS, {
   key: 'M14 10a4 4 0 1 0-3.5 4L12 15.5V18h2.5v2.5H17V18l2-2-5-6Z',
   box: 'm12 3 8 4.5v9L12 21l-8-4.5v-9ZM4 7.5l8 4.5 8-4.5M12 12v9',
 });
-type D = { k: string; t: string; s: string; i: string; h: string };
-type Group = { h: string; label: string; title: string; icon: string; items: string[] };
+type D = { k: string; t: string; s: string; i: string; h: string; m?: string[] };
+type Group = { h: string; label: string; title: string; icon: string; m: string[]; items: string[] };
 const GROUPS: Group[] = [
-  { h: GH, label: 'Source', title: 'GitHub', icon: 'github', items: ['Repo DrissiAli221/f1-battery', 'Branch deploy', 'Read-only deploy key on the VM', 'CI is verify-only'] },
-  { h: AWS, label: 'AWS · Terraform in infra/aws-f1', title: 'CloudFront + S3', icon: 'globe', items: ['CloudFront: default origin S3; /api/* to the VM over HTTP with an X-Origin-Secret header; /api/live/* unbuffered SSE', 'S3 web bucket: web/dist, synced on each build', 'S3 data bucket: private-assets/ fonts, db-backups/ nightly dumps (14-day expiry), raw/ OpenF1 backup', 'IAM user f1-battery-vm, least privilege'] },
-  { h: VM, label: 'Oracle VM oracle-arm-1 · Always Free', title: 'Compose project f1-battery', icon: 'server', items: ['Ubuntu 24.04 ARM, 2 OCPU / 12 GB, in /opt/f1-battery', 'Shared with another project (RCP): its Caddy owns 80/443 and imports the f1 site block (403 without the secret, 405 on writes, proxies /api to f1-api:8080)', 'Always up: db, api, kafka, replay-consumer', 'Jobs: ingest, model, replay-producer, s3'] },
+  { h: GH, label: 'Source', title: 'GitHub', icon: 'github', m: ['github'], items: ['Repo DrissiAli221/f1-battery', 'Read-only deploy key on the VM', 'CI is verify-only'] },
+  { h: AWS, label: 'AWS · Terraform', title: 'CloudFront + S3', icon: 'globe', m: ['terraform', 'cloudfront', 's3', 'iam'], items: ['CloudFront: site from S3, /api/* to the VM', 'S3: web bucket and a private data bucket', 'IAM user f1-battery-vm, least privilege'] },
+  { h: VM, label: 'Oracle VM · Always Free', title: 'Compose project f1-battery', icon: 'server', m: ['oracle', 'ubuntu', 'docker'], items: ['Ubuntu 24.04 ARM, 2 OCPU / 12 GB', 'Shared Caddy owns 80/443 and proxies /api', 'Always up: db, api, kafka, replay-consumer'] },
 ];
 const DEPLOY: D[] = [
-  { k: 'GitHub', t: 'Branch deploy', s: 'git pull over the read-only deploy key', i: 'github', h: GH },
-  { k: 'VM · deploy.sh', t: 'Build web', s: 'Vite build on the VM', i: 'code', h: VM },
-  { k: 'AWS S3', t: 'Web bucket', s: 'web/dist synced on each build', i: 'bucket', h: AWS },
-  { k: 'AWS', t: 'CloudFront', s: 'd1913ktwn45t9g.cloudfront.net', i: 'globe', h: AWS },
-  { k: 'Public', t: 'Visitor', s: 'Static site from S3', i: 'user', h: GH },
+  { k: 'GitHub', t: 'Branch deploy', s: 'git pull, read-only key', i: 'github', m: ['github'], h: GH },
+  { k: 'VM · deploy.sh', t: 'Build web', s: 'Vite build on the VM', i: 'code', m: ['vite'], h: VM },
+  { k: 'AWS', t: 'Web bucket', s: 'web/dist synced', i: 'bucket', m: ['s3'], h: AWS },
+  { k: 'AWS', t: 'CloudFront', s: 'Serves the site', i: 'globe', m: ['cloudfront'], h: AWS },
+  { k: 'Public', t: 'Visitor', s: 'Static site', i: 'user', h: GH },
 ];
 const REQUEST: D[] = [
-  { k: 'Public', t: 'Visitor', s: 'Browser, any region', i: 'user', h: GH },
-  { k: 'AWS', t: 'CloudFront /api/*', s: 'HTTP to the VM with X-Origin-Secret', i: 'globe', h: AWS },
-  { k: 'VM · shared', t: 'Caddy (RCP)', s: '403 without the secret, 405 on writes', i: 'shield', h: VM },
-  { k: 'Container', t: 'api', s: 'Spring Boot, read-only role', i: 'code', h: VM },
-  { k: 'Container', t: 'db', s: 'Postgres 16 + TimescaleDB', i: 'db', h: VM },
+  { k: 'Public', t: 'Visitor', s: 'Any browser', i: 'user', h: GH },
+  { k: 'AWS', t: 'CloudFront /api/*', s: 'HTTP + secret header', i: 'globe', m: ['cloudfront'], h: AWS },
+  { k: 'VM · shared', t: 'Caddy', s: '403 without the secret', i: 'shield', m: ['caddy'], h: VM },
+  { k: 'Container', t: 'api', s: 'Spring Boot, read-only', i: 'code', m: ['springboot'], h: VM },
+  { k: 'Container', t: 'db', s: 'Postgres + Timescale', i: 'db', m: ['postgresql'], h: VM },
 ];
 const REPLAY: D[] = [
-  { k: 'Service · always on', t: 'replay-producer', s: 'Looping systemd service', i: 'play', h: JOB },
-  { k: 'Container', t: 'Kafka topic', s: 'kafka 3.8, KRaft', i: 'log', h: VM },
-  { k: 'Container', t: 'replay-consumer', s: 'Labels regimes per driver', i: 'headphones', h: VM },
+  { k: 'Service', t: 'replay-producer', s: 'Looping service', i: 'play', m: ['springboot'], h: JOB },
+  { k: 'Container', t: 'Kafka topic', s: 'KRaft, one broker', i: 'log', m: ['apachekafka'], h: VM },
+  { k: 'Container', t: 'replay-consumer', s: 'Labels regimes', i: 'headphones', m: ['springboot'], h: VM },
   { k: 'Container', t: 'api SSE', s: '/api/live/{key}', i: 'radio', h: VM },
-  { k: 'AWS', t: 'CloudFront /api/live/*', s: 'Unbuffered, to the visitor', i: 'globe', h: AWS },
+  { k: 'AWS', t: 'CloudFront /api/live/*', s: 'Unbuffered to browser', i: 'globe', m: ['cloudfront'], h: AWS },
 ];
 const TIMERS: D[] = [
-  { k: 'f1-backup.timer', t: 'Nightly 02:00 UTC', s: 'pg_dump to S3 db-backups/, 14-day expiry', i: 'clock', h: JOB },
-  { k: 'f1-weekly.timer', t: 'Monday 04:00 UTC', s: 'OpenF1 backup, ingest, model, publish, S3 sync', i: 'clock', h: JOB },
-  { k: 'AWS S3', t: 'Data bucket', s: 'private-assets/, db-backups/, raw/', i: 'bucket', h: AWS },
+  { k: 'f1-backup.timer', t: 'Nightly 02:00 UTC', s: 'pg_dump to S3', i: 'clock', h: JOB },
+  { k: 'f1-weekly.timer', t: 'Monday 04:00 UTC', s: 'Ingest, model, publish', i: 'clock', h: JOB },
+  { k: 'AWS', t: 'Data bucket', s: 'Assets and backups', i: 'bucket', m: ['s3'], h: AWS },
 ];
 function DFlow({ nodes, dashed, noLink }: { nodes: D[]; dashed?: boolean; noLink?: (i: number) => boolean }) {
   return (
@@ -322,7 +326,7 @@ function DFlow({ nodes, dashed, noLink }: { nodes: D[]; dashed?: boolean; noLink
         <span key={n.t + i} style={{ display: 'contents' }}>
           {i > 0 && <span className="pl-arrow" style={{ ['--h' as string]: nodes[i - 1].h }} aria-hidden="true">{noLink?.(i) ? '' : '→'}</span>}
           <div className="pl-node dp-node" style={{ ['--h' as string]: n.h, ...(dashed ? { borderStyle: 'dashed', borderColor: `color-mix(in srgb, ${n.h} 35%, transparent)` } : {}) } as CSSProperties}>
-            <Icon n={n.i} />
+            <Badge i={n.i} m={n.m} />
             <span className="k">{n.k}</span>
             <strong>{n.t}</strong>
             <small>{n.s}</small>
@@ -340,7 +344,7 @@ function Deployment() {
       <div className="dp-groups">
         {GROUPS.map((g) => (
           <div key={g.title} className="pl-node dp-group" style={{ ['--h' as string]: g.h } as CSSProperties}>
-            <Icon n={g.icon} />
+            <Badge i={g.icon} m={g.m} />
             <span className="k">{g.label}</span>
             <strong>{g.title}</strong>
             <ul>{g.items.map((x) => <li key={x}>{x}</li>)}</ul>
@@ -351,6 +355,12 @@ function Deployment() {
       <div className="dp-lane"><p className="pl-eyebrow"><span>Request path</span><span>/api/*</span></p><DFlow nodes={REQUEST} /></div>
       <div className="dp-lane pl-lane"><p className="pl-eyebrow"><span style={{ color: JOB }}>Live replay lane</span><span>/api/live/*</span></p><DFlow nodes={REPLAY} dashed /></div>
       <div className="dp-lane"><p className="pl-eyebrow"><span style={{ color: JOB }}>systemd timers</span><span>UTC</span></p><DFlow nodes={TIMERS} noLink={(i) => i === 1} /></div>
+    <p className="dp-legend">
+        <span style={{ ['--h' as string]: GH } as CSSProperties}>Grey: GitHub</span>
+        <span style={{ ['--h' as string]: AWS } as CSSProperties}>Teal: AWS</span>
+        <span style={{ ['--h' as string]: VM } as CSSProperties}>Red: Oracle VM</span>
+        <span style={{ ['--h' as string]: JOB } as CSSProperties}>Amber: scheduled and replay</span>
+      </p>
     </div>
   );
 }

diff --git a/web/readme/panels.css b/web/readme/panels.css
@@ -86,4 +86,14 @@
   .dp-node small { font-size: 13px; }
   .pl-lane .dp-node { min-height: 104px; }
   .pl-lane .dp-node strong { font-size: 18px; }
+
+  /* Brand marks */
+  .pl-marks { position: absolute; top: 18px; right: 18px; display: flex; align-items: center; gap: 10px; color: var(--h); opacity: 0.85; }
+  .pl-mark { display: block; }
+  .pl-word { font: 400 11px/1 KHF1, monospace; text-transform: none; letter-spacing: 0.04em; border: 1px solid currentColor; padding: 4px 6px 3px; }
+  .pl-node:has(.pl-marks) .k { padding-right: 44px; }
+  .pl-node:has(.pl-mark + .pl-mark) .k { padding-right: 0; white-space: nowrap; }
+  .dp-group:has(.pl-marks) .k { padding-right: 190px; }
+  .dp-legend { margin: 28px 0 0; display: flex; gap: 32px; font: 400 12px/1 KHF1, monospace; text-transform: uppercase; letter-spacing: 0.08em; color: #8c8b82; }
+  .dp-legend span::before { content: ''; display: inline-block; width: 10px; height: 10px; background: var(--h); margin-right: 10px; }
 }

diff --git a/README.md b/README.md
@@ -160,4 +160,4 @@ A caught artifact (smoothing "super-clip" segments, a failed hinge-ramp detector
 
 ## Licence and credits
 
-Private, non-commercial project. Data from [OpenF1](https://openf1.org/) under its non-commercial terms; raw and per-sample data are never committed or redistributed, and the public API serves derived aggregates only. Not affiliated with Formula 1, the FIA or FOM. Team and driver imagery, logos and the typefaces used in the web app belong to their owners, are used privately and for non-commercial study, and are credited in the app footer; texture, mask and typeface sources are listed in [web/public/assets/ASSETS.md](web/public/assets/ASSETS.md). The images in this README are rendered from the web app and contain such material. No licence is granted for it.
+Private, non-commercial project. Data from [OpenF1](https://openf1.org/) under its non-commercial terms; raw and per-sample data are never committed or redistributed, and the public API serves derived aggregates only. Not affiliated with Formula 1, the FIA or FOM. Team and driver imagery, logos and the typefaces used in the web app belong to their owners, are used privately and for non-commercial study, and are credited in the app footer; texture, mask and typeface sources are listed in [web/public/assets/ASSETS.md](web/public/assets/ASSETS.md). The images in this README are rendered from the web app and contain such material. No licence is granted for it. Brand marks in the pipeline and deployment diagrams are from [Simple Icons](https://simpleicons.org/) (CC0); trademarks belong to their owners.
